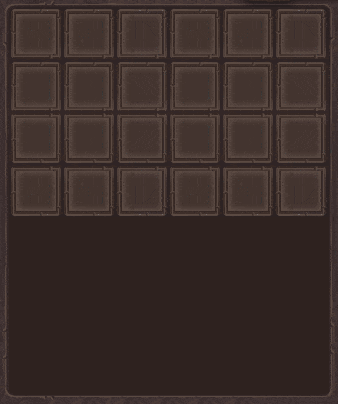
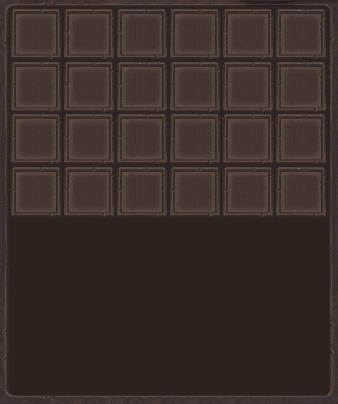
Correção calculo button item

diff --git a/src/main/java/frontend/model/ButtonItemFactory.java b/src/main/java/frontend/model/ButtonItemFactory.java
@@ -8,23 +8,24 @@ import java.awt.*;
 
 public final class ButtonItemFactory {
 
+    private static final int BUTTON_PER_LINE = 6;
+    private static final int DISTANCE_PER_BUTTON = 53;
+    private static final int POSITION_STARTING_Y = 14;
+    private static final int POSITION_STARTING_X = 16;
+
+
     private static int calcY(int index) {
-        var y = 14;
-        int mult = index / 6;
-        if (index % 6 == 0)
-            y = index <= 5 ? 14 + 55 * mult : 14 + 51 * mult;
-        return y;
+        int mult = index / BUTTON_PER_LINE;
+        return POSITION_STARTING_Y + mult * DISTANCE_PER_BUTTON;
     }
 
     private static int calcX(int index) {
-        var x = 17 + index * 53;
-        if (index % 6 == 0)
-            x = 17;
-        return x;
+        int mult = index % BUTTON_PER_LINE;
+        return POSITION_STARTING_X + mult * DISTANCE_PER_BUTTON;
     }
 
     public static JButton getInstance(Item item, int index) {
-        var rectangle = new Rectangle(calcX(index), calcY(index), 37, 38);
+        var rectangle = new Rectangle(calcX(index), calcY(index), 40, 40);
         return create(item, rectangle);
     }
 
